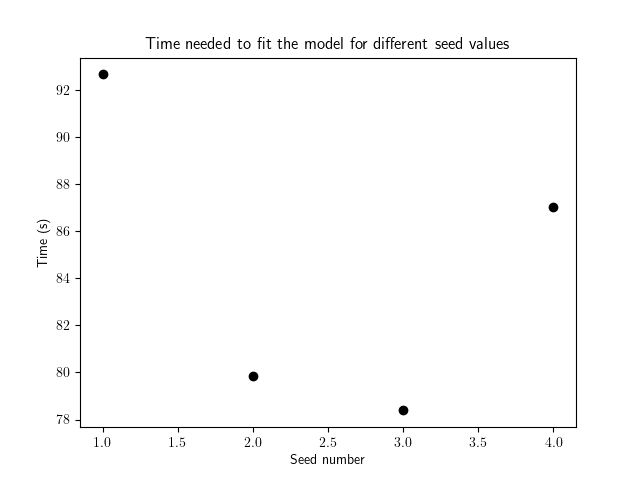
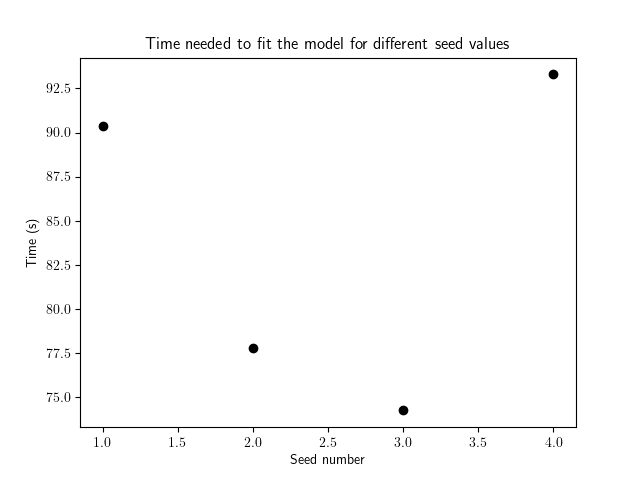
Artifitial Data Dnalysis Complete

diff --git a/analise.py b/analise.py
@@ -10,9 +10,9 @@ plt.rcParams['text.usetex'] = True
 
 
 seed = np.array([1,2,3,4])
-n = np.array([100,1000,10000,100000])
+n = np.array([100,1000,10000])
 error = np.array([0,0.01,0.1,1])
-mult = np.array([1,2,4])
+mult = np.array([1,2,3,4])
 
 def gauss(x,x0,sigma):
     np.exp(- (x - x0) ** 2 / (2 * sigma ** 2))/(sigma*np.sqrt(2*np.pi))
@@ -137,10 +137,10 @@ for multval in mult:
     plt.plot(multval,endtime - starttime,'o',color='black')
 
 mdFile.new_line()
-mdFile.new_table(columns=5, rows=len(seed)+1, text=tableregression, text_align='center')
+mdFile.new_table(columns=5, rows=len(mult)+1, text=tableregression, text_align='center')
 plt.xlabel("Multiplication number")
 plt.ylabel("Time (s)")
-plt.title("Time needed to fit the model for different multiplication values of 50 iterations and 20 populations")
+plt.title("Time needed to fit the model for different multiplication values\nof 50 iterations and 20 populations")
 plt.show()
 plt.savefig("data/artifitial/regression/time_mult.png")
 plt.close()
@@ -172,8 +172,9 @@ for ndp in n:
     equation_file=f"data/artifitial/datapoints/{ndp}.csv",)
     
     model.fit(X, y)
-    tabledatapoints.extend([f"{ndp}", f"${model.latex()}$", f"-", f"{endtime - starttime}"])
+    
     endtime = time.time()
+    tabledatapoints.extend([f"{ndp}", f"${model.latex()}$", f"-", f"{endtime - starttime}"])
     plt.plot(ndp,endtime - starttime,'o',color='black')
 
 mdFile.new_line()

diff --git a/data/artifitial/Analysis.md b/data/artifitial/Analysis.md
@@ -6,13 +6,45 @@ Contents
 ========
 
 * [Seed Analysis](#seed-analysis)
+* [Error Analysis](#error-analysis)
+* [Regression Analysis](#regression-analysis)
+* [Number of Data Points Analysis](#number-of-data-points-analysis)
 
 # Seed Analysis
   
 
 |Seed|Best Fit|Loss|Time|
 | :---: | :---: | :---: | :---: |
-|1|$e^{\left(4.30 - 5.56 x_{0}\right) \left(x_{0} - 1.23\right)}$|-|92.6705367565155|
-|2|$1.35 x_{0} e^{- \left(2.06 x_{0} - 1.67\right) \left(2.45 x_{0} - 2.39\right)}$|-|79.83041405677795|
-|3|$e^{5.60 \left(1.23 - x_{0}\right) \left(x_{0} - 0.774\right)}$|-|78.38894987106323|
-|4|$x_{0}^{3} e^{- \left(x_{0} - 1.08\right) \left(x_{0} + e^{x_{0}} - 0.454\right)}$|-|87.02336144447327|
+|1|$0.384 e^{\left(8.13 - 5.51 x_{0}\right) \left(x_{0} - 0.526\right)}$|-|90.38273239135742|
+|2|$e^{3.61 \left(1.88 - 1.54 x_{0}\right) \left(x_{0} - 0.774\right)}$|-|77.76671004295349|
+|3|$x_{0}^{2} e^{\left(x_{0} - 1.11\right) \left(- e^{x_{0}} - 0.570 + 2.16 e^{- x_{0}^{2}}\right)}$|-|74.25499248504639|
+|4|$\frac{2.76}{-0.666 + \frac{e^{x_{0}^{3}}}{x_{0}^{3}}}$|-|93.29622793197632|
+
+# Error Analysis
+  
+
+|Error|Best Fit|Loss|Time|
+| :---: | :---: | :---: | :---: |
+|0.0|$e^{5.56 \left(1.23 - x_{0}\right) \left(x_{0} - 0.774\right)}$|-|79.29691767692566|
+|0.01|$x_{0}^{2} e^{\left(1.12 - x_{0}\right) \left(x_{0} \left(x_{0} + 0.584\right) + 2 x_{0} - 1.12\right)}$|-|78.03501510620117|
+|0.1|$x_{0}^{2} e^{- 2.34 x_{0}^{2} \left(x_{0} - 1.12\right)}$|-|77.0858371257782|
+|1.0|$x_{0} \left(1.83 - x_{0}\right)$|-|79.8245460987091|
+
+# Regression Analysis
+  
+
+|20 Iterations|50 Populations|Best Fit|Loss|Time|
+| :---: | :---: | :---: | :---: | :---: |
+|x1|x1|$x_{0}^{3} e^{- \left(x_{0} - 1.08\right) \left(x_{0} + e^{x_{0}} - 0.428\right)}$|-|79.01841616630554|
+|x2|x2|$e^{\left(0.774 - x_{0}\right) \left(5.55 x_{0} - 6.81\right)}$|-|327.9216182231903|
+|x4|x4|$e^{5.55 \left(0.774 - x_{0}\right) \left(x_{0} - 1.23\right)}$|-|1243.5722739696503|
+
+# Number of Data Points Analysis
+  
+
+|Number of Data Points|Best Fit|Loss|Time|
+| :---: | :---: | :---: | :---: |
+|100|$e^{\left(1.23 - x_{0}\right) \left(5.56 x_{0} - 4.30\right)}$|-|ordem de 10|
+|1000|$e^{\left(0.591 - 0.482 x_{0}\right) \left(11.5 x_{0} - 8.90\right)}$|-|ordem de 100|
+|10000|$e^{\left(6.81 - 5.56 x_{0}\right) \left(x_{0} - 0.774\right)}$|-|ordem de 1000|
+|100000|$x_{0} e^{\left(1.15 - x_{0}\right) \left(4.91 x_{0} - 3.14\right)}$|-|cerca de 6000|
